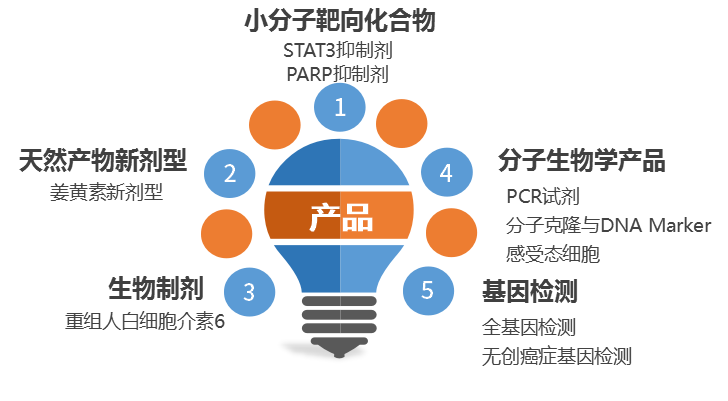
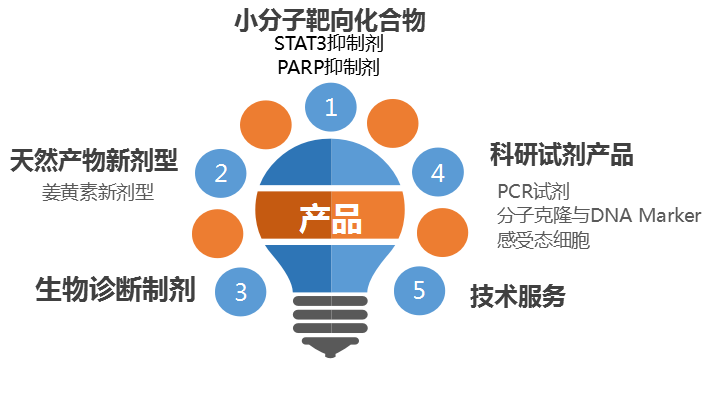
2018824

Changed region(s): [[0.0, 0.0, 0.9973, 0.8978], [0.6648, 0.8678, 0.8764, 0.9277], [0.5742, 0.7781, 0.6044, 0.808]]

diff --git a/main/templates/main/gongsijianjie.html b/main/templates/main/gongsijianjie.html
@@ -15,7 +15,7 @@
             <div>
                 <div>
                     <div class="col-md-12">
-                        <p style="text-indent: 2em;">锐达医药是一家由郑州大学特聘教授、黄河学者、美籍华人徐学军博士创立、以海外资深科学家任技术领头人的生物医药高科技企业。公司以自主知识产权创新药物研究、开发、转化为核心，拥有国内外专利十多项，聚焦于恶性肿瘤的诊治，具体业务包括抗癌靶向药物、肿瘤个体化药物设计、医学诊断产品及相关技术服务等。</p>
+                        <p style="text-indent: 2em;">锐达医药是一家由郑州大学特聘教授、黄河学者、美籍华人徐学军博士创立、以海外资深科学家任技术领头人的生物医药高科技企业。公司拥有自主知识产权的STAT3抗癌靶向药物研发项目，主要产品及业务包括抗癌靶向药物研发、生物诊断产品、科研试剂产品及相关技术服务等。</p>
                         <p style="text-indent: 2em;">公司注册于国家级企业孵化器开封高新技术创业服务中心（开封众创空间），是开封市政府重点扶持企业之一，于2015年初获得开封新区政府高科技双创企业启动经费。</p>
                         <p style="text-indent: 2em;">2015年10月，公司获得河南省中原科创基金战略投资，成为中原科创基金投资的河南省第一批、开封市第一家科创企业。该基金成立于2015年9月30日，由河南省财政厅、河南省科技厅与中原证券发起设立，是河南省成立的首只政府背景的天使投资基金。</p>
                     </div>
@@ -71,7 +71,8 @@
                     </div>
                     <div class="col-md-12">
                         <br>
-                        <p style="text-indent: 2em;">公司立足开封、着眼全国以及全球医药技术的发展，与国内外多家高校、医药企业和学术机构建立了广泛的合作，特别是美国Baylor College of Medicine、MD Anderson Cancer Center、郑州大学、河南大学等有着密切的科研合作和业务交流。公司立志于人类健康事业，并积极配合“一带一路”国家战略和地区产业布局，努力构建科学高效的医药产业链，致力于打造癌症预防、医疗和康复为一体的高端医疗服务系统。</p>
+                        <p style="text-indent: 2em;">公司立足开封、着眼全国以及全球医药技术的发展，与国内外多家高校、医药企业和学术机构建立了广泛的合作，特别是美国Baylor College of Medicine、MD Anderson Cancer Center、郑州大学、河南大学等有着密切的科研合作和业务交流。锐达医药致力于人类健康事业，将不遗余力提升国内新药原创能力为己任。
+</p>
                     </div>
                 </div>
             </div>

diff --git a/main/templates/main/research.html b/main/templates/main/research.html
@@ -12,17 +12,19 @@
             <div class="col-md-12">
                 <h1 class="text-center" style="padding-top: 2%; padding-bottom: 2%;">研发中心 / R&D Center</h1>
                 <div>
-                    <p style="text-indent: 2em; font-size: 130%">锐达医药的研发大楼总面积约3000平米，研发人员以硕士和博士为主。公司目前拥有一体化新药临床前研发平台，涵盖从药物设计、药物合成、药物筛选、药效评价、药物分析以及制剂研究等。</p>
+                    <p style="text-indent: 2em; font-size: 130%">锐达医药的研发大楼总面积约3000平米，研发人员以硕士和博士为主。公司拥有世界先进的药物筛选技术、紧跟行业发展的产品和项目、精干高效的科研团队、以基因靶标研究、计算机辅助药物设计、药物合成、生物活性鉴定、动物疾病模式中心等模块构建的完整研发链条。
+</p>
                     <br>
                     <div class="col-md-10 col-md-offset-1">
                         <img src="{% static "main/image/research_image_01.png" %}" class="img-responsive center-block" style="width: 800px">
                     </div>
                     <div class="col-md-12">
-                        <br>
-                        <p class="text-center" style="font-size: 130%;">公司在研项目分为两大系列，分别为小分子靶向新型药物研发和生物药研发。</p>
+                        <p class="text-center" style="font-size: 130%;">一体化新药临床前研发平台：涵盖从药物设计、药物合成、药物筛选、药效评价、药物分析以及制剂研究等。</p>
+                        <p class="text-center" style="font-size: 130%;">世界先进的药物筛选技术：计算机辅助药物设计以及实验平台的中通量筛选技术确定先导化合物。</p>
                     </div>
                     <div class="col-md-12">
                         <br>
+                         <p class="text-center" style="font-size: 130%;">公司在研项目分为三大系列，分别为小分子抗癌靶向药、生物诊断产品和科研试剂产品。</p>
                         <img src="{% static "main/image/research_image_031.png" %}" class="img-responsive center-block" style="width: 700px">
                     </div>
                     <div class="col-md-6 col-md-offset-3">

diff --git a/main/templates/main/guanlituandui.html b/main/templates/main/guanlituandui.html
@@ -25,7 +25,8 @@
                             <ul>
                                 <li>美国贝勒医学院生理与生物物理系、医学系博士后</li>
                                 <li>曾任美国贝勒医学院高级讲师、郑州大学特聘教授、河南大学黄河学者、中科院上海药物所客座研究员</li>
-                                <li>徐学军博士是STAT3抑制剂的主要发明人，是STAT3信号传导机制研究和STAT3抑制剂在肿瘤治疗方面的国际知名专家，具有本领域开阔的视野；受过美国行业最高标准培训（NIH博士后）的药物设计专家，曾成功鉴定出基于STAT3蛋白靶点的靶向性抗癌药物的先导化合物，获得相关领域的美国商标注册和专利申请局的发明专利四项及国内专利十多项，发表代表性学术论文三十余篇</li>
+                                <li>徐学军博士是STAT3抑制剂的主要发明人，是STAT3信号传导机制研究和STAT3抑制剂在肿瘤治疗方面的国际知名专家，具有本领域开阔的视野；受过美国行业最高标准培训（NIH博士后）的药物设计专家，获得相关领域的美国商标注册和专利申请局的发明专利四项及国内专利十多项，发表代表性学术论文三十余篇</li>
+                                <li>徐学军博士设计的基于STAT3蛋白靶点的靶向性抗癌药物的先导化合物C188-9已于2017年获得美国FDA批准进入临床I期</li>
                             </ul>
                         </div>
                     </div>

diff --git a/main/templates/main/products.html b/main/templates/main/products.html
@@ -113,12 +113,11 @@
                 {% block navbar %}
               <div class="col-md-2">
                 <ul class="nav nav-pills nav-stacked">
-                    <li role="presentation" style="font-size: 150%; color:black">产品服务</li>
+                   <li role="presentation" style="font-size: 150%; color:black">产品服务</li>
                     <li role="presentation" ><a href="{% url "main:xiaofenzibaxianghuahewu" %}" style="font-size: 110%; color: ">小分子靶向化合物</a></li>
                     <li role="presentation" ><a href="{% url "main:tianranchanwujixinmoxing" %}" style="font-size: 110%; color: ">天然产物新剂型</a></li>
                     <li role="presentation" ><a href="{% url "main:shengwuzhiji" %}" style="font-size: 110%; color: ">生物制剂</a></li>
                     <li role="presentation" ><a href="{% url "main:fenzishengwuxuechanpin" %}" style="font-size: 110%; color: ">分子生物学产品</a></li>
-                    <li role="presentation" ><a href="{% url "main:jiyinjiance" %}" style="font-size: 110%; color: ">基因检测</a></li>
                     <li role="presentation" ><a href="{% url "main:jishufuwu" %}" style="font-size: 110%; color: ">技术服务</a></li>
                 </ul>
             </div>

diff --git a/main/templates/main/fenzishengwuxuechanpin.html b/main/templates/main/fenzishengwuxuechanpin.html
@@ -18,7 +18,7 @@
             <li role="presentation" ><a href="{% url "main:tianranchanwujixinmoxing" %}" style="font-size: 110%; color: ">天然产物新剂型</a></li>
             <li role="presentation" ><a href="{% url "main:shengwuzhiji" %}" style="font-size: 110%; color: ">生物制剂</a></li>
             <li role="presentation" class="active"><a href="{% url "main:fenzishengwuxuechanpin" %}" style="font-size: 110%; color: ">分子生物学产品</a></li>
-            <li role="presentation" ><a href="{% url "main:jiyinjiance" %}" style="font-size: 110%; color: ">基因检测</a></li>
+          <!--  <li role="presentation" ><a href="{% url "main:jiyinjiance" %}" style="font-size: 110%; color: ">基因检测</a></li>-->
             <li role="presentation" ><a href="{% url "main:jishufuwu" %}" style="font-size: 110%; color: ">技术服务</a></li>
         </ul>
     </div>

diff --git a/main/templates/main/jishufuwu.html b/main/templates/main/jishufuwu.html
@@ -18,7 +18,7 @@
             <li role="presentation" ><a href="{% url "main:tianranchanwujixinmoxing" %}" style="font-size: 110%; color: ">天然产物新剂型</a></li>
             <li role="presentation" ><a href="{% url "main:shengwuzhiji" %}" style="font-size: 110%; color: ">生物制剂</a></li>
             <li role="presentation" ><a href="{% url "main:fenzishengwuxuechanpin" %}" style="font-size: 110%; color: ">分子生物学产品</a></li>
-            <li role="presentation" ><a href="{% url "main:jiyinjiance" %}" style="font-size: 110%; color: ">基因检测</a></li>
+  <!--          <li role="presentation" ><a href="{% url "main:jiyinjiance" %}" style="font-size: 110%; color: ">基因检测</a></li>-->
             <li role="presentation" class="active"><a href="{% url "main:jishufuwu" %}" style="font-size: 110%; color: ">技术服务</a></li>
         </ul>
     </div>

diff --git a/main/templates/main/shengwuzhiji.html b/main/templates/main/shengwuzhiji.html
@@ -18,7 +18,7 @@
             <li role="presentation" ><a href="{% url "main:tianranchanwujixinmoxing" %}" style="font-size: 110%; color: ">天然产物新剂型</a></li>
             <li role="presentation" class="active"><a href="{% url "main:shengwuzhiji" %}" style="font-size: 110%; color: ">生物制剂</a></li>
             <li role="presentation" ><a href="{% url "main:fenzishengwuxuechanpin" %}" style="font-size: 110%; color: ">分子生物学产品</a></li>
-            <li role="presentation" ><a href="{% url "main:jiyinjiance" %}" style="font-size: 110%; color: ">基因检测</a></li>
+          <!--  <li role="presentation" ><a href="{% url "main:jiyinjiance" %}" style="font-size: 110%; color: ">基因检测</a></li>-->
             <li role="presentation" ><a href="{% url "main:jishufuwu" %}" style="font-size: 110%; color: ">技术服务</a></li>
         </ul>
     </div>

diff --git a/main/templates/main/tianranchanwujixinmoxing.html b/main/templates/main/tianranchanwujixinmoxing.html
@@ -18,7 +18,7 @@
             <li role="presentation" class="active"><a href="{% url "main:tianranchanwujixinmoxing" %}" style="font-size: 110%; color: ">天然产物新剂型</a></li>
             <li role="presentation" ><a href="{% url "main:shengwuzhiji" %}" style="font-size: 110%; color: ">生物制剂</a></li>
             <li role="presentation" ><a href="{% url "main:fenzishengwuxuechanpin" %}" style="font-size: 110%; color: ">分子生物学产品</a></li>
-            <li role="presentation" ><a href="{% url "main:jiyinjiance" %}" style="font-size: 110%; color: ">基因检测</a></li>
+          <!--  <li role="presentation" ><a href="{% url "main:jiyinjiance" %}" style="font-size: 110%; color: ">基因检测</a></li>-->
             <li role="presentation" ><a href="{% url "main:jishufuwu" %}" style="font-size: 110%; color: ">技术服务</a></li>
         </ul>
     </div>

diff --git a/main/templates/main/xiaofenzibaxianghuahewu.html b/main/templates/main/xiaofenzibaxianghuahewu.html
@@ -18,7 +18,7 @@
             <li role="presentation" ><a href="{% url "main:tianranchanwujixinmoxing" %}" style="font-size: 110%; color: ">天然产物新剂型</a></li>
             <li role="presentation" ><a href="{% url "main:shengwuzhiji" %}" style="font-size: 110%; color: ">生物制剂</a></li>
             <li role="presentation" ><a href="{% url "main:fenzishengwuxuechanpin" %}" style="font-size: 110%; color: ">分子生物学产品</a></li>
-            <li role="presentation" ><a href="{% url "main:jiyinjiance" %}" style="font-size: 110%; color: ">基因检测</a></li>
+          <!--<li role="presentation" ><a href="{% url "main:jiyinjiance" %}" style="font-size: 110%; color: ">基因检测</a></li>-->
             <li role="presentation" ><a href="{% url "main:jishufuwu" %}" style="font-size: 110%; color: ">技术服务</a></li>
         </ul>
     </div>
